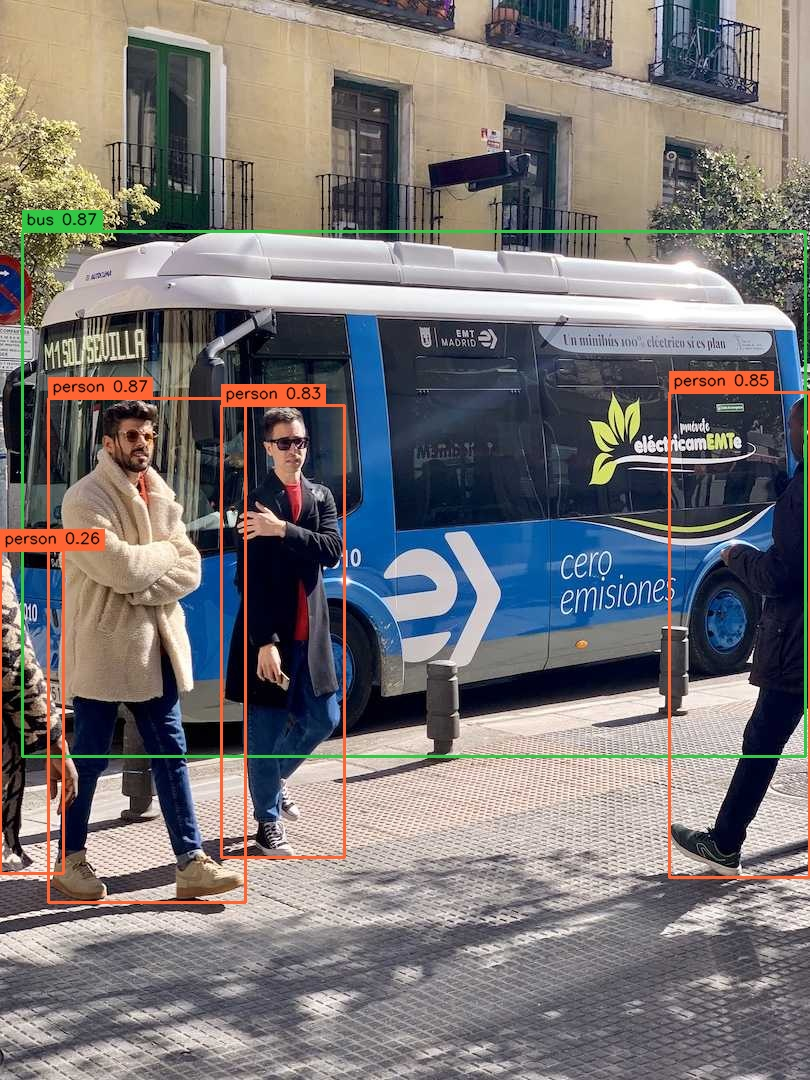
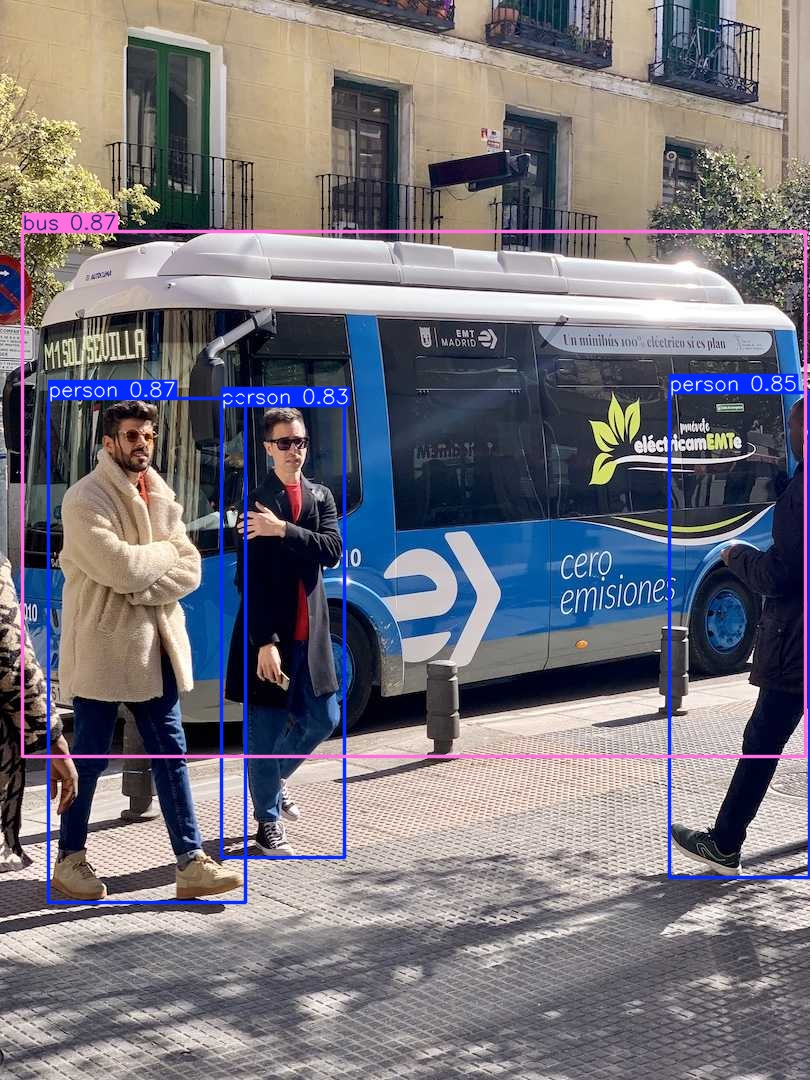
Harden SIH prototype: clean live overlay, edge caption, metric reconciliation, and predictive forecast drivers

diff --git a/src/pages/PredictiveIntelligencePage.tsx b/src/pages/PredictiveIntelligencePage.tsx
@@ -600,15 +600,65 @@ export const PredictiveIntelligencePage: React.FC = () => {
                 </div>
               </div>
 
-              {/* Auditable Explanations Card */}
-              <div className="p-4 rounded-xl bg-slate-950 border border-slate-800 space-y-2">
-                <div className="flex items-center gap-1.5 text-xs font-bold text-slate-300 uppercase tracking-wider">
-                  <Info className="h-4 w-4 text-indigo-400" />
-                  <span>Why This Forecast?</span>
+              {/* Auditable Explanations & Primary Driver Card */}
+              <div className="p-4 rounded-xl bg-slate-950 border border-slate-800 space-y-3">
+                <div className="flex items-center justify-between">
+                  <div className="flex items-center gap-1.5 text-xs font-bold text-slate-300 uppercase tracking-wider">
+                    <Info className="h-4 w-4 text-indigo-400" />
+                    <span>Forecast Direction &amp; Primary Driver</span>
+                  </div>
+                  <span className="text-[10px] text-slate-500 font-mono">
+                    Empirical Model Evidence
+                  </span>
                 </div>
-                <p className="text-xs text-slate-300 leading-relaxed bg-slate-900/60 p-3 rounded-lg border border-slate-800/80 font-sans">
-                  {selectedForecast.explanation}
-                </p>
+
+                <div className="grid grid-cols-1 sm:grid-cols-2 gap-3 pt-1">
+                  <div className="p-3 rounded-lg bg-slate-900/80 border border-slate-800 space-y-1">
+                    <span className="text-[10px] font-bold text-slate-400 uppercase tracking-wider block">
+                      Forecast Direction
+                    </span>
+                    <div className="text-xs font-semibold">
+                      {selectedForecast.evidence_sufficiency === 'INSUFFICIENT' ? (
+                        <span className="text-slate-400">Forecast direction: Limited evidence</span>
+                      ) : selectedForecast.trend_direction === 'IMPROVING' ? (
+                        <span className="text-emerald-400 flex items-center gap-1">
+                          <TrendingDown className="h-3.5 w-3.5" /> Forecast direction: Improving
+                        </span>
+                      ) : selectedForecast.trend_direction === 'DETERIORATING' ? (
+                        <span className="text-rose-400 flex items-center gap-1">
+                          <TrendingUp className="h-3.5 w-3.5" /> Forecast direction: Deteriorating
+                        </span>
+                      ) : (
+                        <span className="text-sky-400 flex items-center gap-1">
+                          <Activity className="h-3.5 w-3.5" /> Forecast direction: Stable
+                        </span>
+                      )}
+                    </div>
+                  </div>
+
+                  <div className="p-3 rounded-lg bg-slate-900/80 border border-slate-800 space-y-1">
+                    <span className="text-[10px] font-bold text-slate-400 uppercase tracking-wider block">
+                      Primary Driver
+                    </span>
+                    <p className="text-xs text-slate-200">
+                      {selectedForecast.evidence_sufficiency === 'INSUFFICIENT'
+                        ? 'Insufficient fleet passes (< 3 observations)'
+                        : `Rate of change across ${selectedForecast.historical_observation_count} passes (${selectedForecast.independent_bus_count} buses) vs baseline (${selectedForecast.baseline_value})`}
+                    </p>
+                  </div>
+                </div>
+
+                <div className="text-xs text-slate-300 leading-relaxed bg-slate-900/60 p-3 rounded-lg border border-slate-800/80 font-sans space-y-1">
+                  <div className="text-[11px] font-semibold text-slate-400 uppercase tracking-wider">
+                    Calculated Model Rationale:
+                  </div>
+                  <p>{selectedForecast.explanation}</p>
+                </div>
+
+                <div className="flex items-center justify-between text-[10px] text-slate-500 pt-1 border-t border-slate-900">
+                  <span>* Evidence confidence is not probability.</span>
+                  <span>Observation Window: {selectedForecast.observation_window_days.toFixed(1)} days</span>
+                </div>
               </div>
 
               {/* Early Warning Alert & Recommended Action */}

diff --git a/src/pages/IncidentsPage.tsx b/src/pages/IncidentsPage.tsx
@@ -207,15 +207,16 @@ export function IncidentsPage() {
       {/* Summary KPI Cards */}
       <div className="grid grid-cols-2 gap-3 sm:grid-cols-5">
         {[
-          { label: 'Total Incidents', value: incidents.length, color: 'text-rose-400' },
-          { label: 'New / Unreviewed', value: incidents.filter((i) => i.status === 'NEW').length, color: 'text-rose-400' },
-          { label: 'Under Review', value: incidents.filter((i) => i.status === 'REVIEW').length, color: 'text-amber-400' },
-          { label: 'Actioned / Closed', value: incidents.filter((i) => i.status === 'ACTIONED' || i.status === 'CLOSED').length, color: 'text-emerald-400' },
-          { label: 'Suspect Hit & Run', value: incidents.filter((i) => i.incident_type === 'HIT_AND_RUN_SUSPECT').length, color: 'text-purple-400' },
+          { label: 'Active Corridor Queue', sub: 'Current Testbed Incidents', value: incidents.length, color: 'text-rose-400' },
+          { label: 'New / Unreviewed', sub: 'Awaiting Operator Review', value: incidents.filter((i) => i.status === 'NEW').length, color: 'text-rose-400' },
+          { label: 'Under Review', sub: 'Operator Verification', value: incidents.filter((i) => i.status === 'REVIEW').length, color: 'text-amber-400' },
+          { label: 'Actioned / Closed', sub: 'Dispatched to Authority', value: incidents.filter((i) => i.status === 'ACTIONED' || i.status === 'CLOSED').length, color: 'text-emerald-400' },
+          { label: 'Suspect Hit & Run', sub: 'ANPR Track Associated', value: incidents.filter((i) => i.incident_type === 'HIT_AND_RUN_SUSPECT').length, color: 'text-purple-400' },
         ].map((stat) => (
           <div key={stat.label} className="rounded-xl border border-ink-700 bg-ink-850 p-3.5 shadow-sm">
             <p className={`text-2xl font-bold tabular font-mono ${stat.color}`}>{stat.value}</p>
-            <p className="mt-0.5 text-xs text-slate-400">{stat.label}</p>
+            <p className="mt-0.5 text-xs font-semibold text-slate-300">{stat.label}</p>
+            <p className="text-[10px] text-slate-500">{stat.sub}</p>
           </div>
         ))}
       </div>

diff --git a/src/pages/DigitalTwinPage.tsx b/src/pages/DigitalTwinPage.tsx
@@ -316,16 +316,16 @@ export function DigitalTwinPage() {
       <div className="grid grid-cols-2 gap-3 sm:grid-cols-3 lg:grid-cols-6">
         <div className="rounded-xl border border-ink-700 bg-ink-850 p-3.5 shadow-sm">
           <div className="flex items-center justify-between text-slate-400">
-            <span className="text-xs font-medium">Active Fleet</span>
+            <span className="text-xs font-semibold text-slate-300">Fleet Buses (Active)</span>
             <Bus className="h-4 w-4 text-emerald-400" />
           </div>
           <p className="mt-2 text-xl font-bold tabular-nums text-slate-100">{summary.active_buses}</p>
-          <p className="mt-0.5 text-[10px] text-slate-500">Sensing Buses Online</p>
+          <p className="mt-0.5 text-[10px] text-slate-500">11 Network Sensing Buses</p>
         </div>
 
         <div className="rounded-xl border border-ink-700 bg-ink-850 p-3.5 shadow-sm">
           <div className="flex items-center justify-between text-slate-400">
-            <span className="text-xs font-medium">Roads Monitored</span>
+            <span className="text-xs font-semibold text-slate-300">Corridor Segments</span>
             <MapPin className="h-4 w-4 text-blue-400" />
           </div>
           <p className="mt-2 text-xl font-bold tabular-nums text-slate-100">{summary.roads_observed}</p>
@@ -334,7 +334,7 @@ export function DigitalTwinPage() {
 
         <div className="rounded-xl border border-ink-700 bg-ink-850 p-3.5 shadow-sm">
           <div className="flex items-center justify-between text-slate-400">
-            <span className="text-xs font-medium">Road Defects</span>
+            <span className="text-xs font-semibold text-slate-300">Road Defects</span>
             <AlertTriangle className="h-4 w-4 text-amber-400" />
           </div>
           <p className="mt-2 text-xl font-bold tabular-nums text-slate-100">{summary.active_defects}</p>

diff --git a/src/pages/OverviewPage.tsx b/src/pages/OverviewPage.tsx
@@ -166,7 +166,8 @@ export function OverviewPage() {
       {/* KPI Cards */}
       <div className="grid grid-cols-1 gap-4 sm:grid-cols-2 xl:grid-cols-3 3xl:grid-cols-6">
         <StatCard
-          label="Active Buses"
+          label="Fleet Buses (Network)"
+          subtitle="Active / Total Registered"
           value={stats.activeBuses}
           total={stats.totalBuses}
           icon={BusIcon}
@@ -178,6 +179,7 @@ export function OverviewPage() {
         />
         <StatCard
           label="Events Detected Today"
+          subtitle="AI Edge Vision Detections"
           value={stats.eventsDetected}
           icon={Radar}
           iconColor="text-accent-400"
@@ -188,6 +190,7 @@ export function OverviewPage() {
         />
         <StatCard
           label="Road Defects"
+          subtitle="Active Surface Defects"
           value={stats.roadDefects}
           icon={CircleAlert}
           iconColor="text-amber-400"
@@ -198,6 +201,7 @@ export function OverviewPage() {
         />
         <StatCard
           label="Traffic Congestion"
+          subtitle="Monitored Corridor Zones"
           value={stats.trafficCongestion}
           icon={TrafficCone}
           iconColor="text-orange-400"
@@ -207,7 +211,8 @@ export function OverviewPage() {
           onClick={() => navigate('/traffic')}
         />
         <StatCard
-          label="Active Incidents"
+          label="Active Incidents (Fleet Log)"
+          subtitle="30-Day Cumulative Log"
           value={stats.activeIncidents}
           total={stats.totalIncidents}
           icon={Siren}
@@ -219,6 +224,7 @@ export function OverviewPage() {
         />
         <StatCard
           label="Camera Feeds"
+          subtitle="Edge Video Streams"
           value={stats.cameraFeeds}
           icon={Camera}
           iconColor="text-teal-400"

diff --git a/src/components/ui/StatCard.tsx b/src/components/ui/StatCard.tsx
@@ -4,6 +4,7 @@ interface StatCardProps {
   label: string;
   value: number | string;
   total?: number;
+  subtitle?: string;
   icon: LucideIcon;
   iconColor: string;
   iconBg: string;
@@ -12,7 +13,7 @@ interface StatCardProps {
   onClick?: () => void;
 }
 
-export function StatCard({ label, value, total, icon: Icon, iconColor, iconBg, trend, sparkline, onClick }: StatCardProps) {
+export function StatCard({ label, value, total, subtitle, icon: Icon, iconColor, iconBg, trend, sparkline, onClick }: StatCardProps) {
   const trendColor =
     trend?.direction === 'up' ? 'text-emerald-400' : trend?.direction === 'down' ? 'text-rose-400' : 'text-slate-400';
 
@@ -38,7 +39,8 @@ export function StatCard({ label, value, total, icon: Icon, iconColor, iconBg, t
           {value}
           {total !== undefined && <span className="text-base font-normal text-slate-500"> / {total}</span>}
         </p>
-        <p className="mt-1 text-sm text-slate-400">{label}</p>
+        <p className="mt-1 text-sm font-medium text-slate-300">{label}</p>
+        {subtitle && <p className="text-[11px] text-slate-500">{subtitle}</p>}
       </div>
       {sparkline && sparkline.length > 0 && (
         <div className="mt-3 flex h-8 items-end gap-0.5">

diff --git a/src/pages/LiveMonitorPage.tsx b/src/pages/LiveMonitorPage.tsx
@@ -25,6 +25,7 @@ import {
   Cpu,
   ClipboardCheck,
   RefreshCw,
+  Info,
 } from 'lucide-react';
 import { apiService } from '@/services/api';
 import { mockLiveMonitorStatus } from '@/data/mockData';
@@ -432,6 +433,14 @@ export const LiveMonitorPage: React.FC = () => {
                   </span>
                 </label>
               </div>
+            </div>
+
+            {/* Edge Bandwidth & Architecture Disclosure */}
+            <div className="bg-secondary/20 border-t border-border px-4 py-2.5 flex items-start gap-2.5 text-xs text-muted-foreground">
+              <Info className="h-4 w-4 text-primary shrink-0 mt-0.5" />
+              <p className="leading-relaxed">
+                <strong className="text-foreground">Edge Architecture:</strong> Edge AI processes video on the bus. The central platform receives lightweight AI events, metadata, reliability scores, and selective evidence — not continuous raw video.
+              </p>
             </div>
           </div>
 

diff --git a/ai/traffic/detector.py b/ai/traffic/detector.py
@@ -12,6 +12,7 @@ from ai.traffic.config import (
     CLASS_COLORS_BGR, DEFAULT_COLOR_BGR,
     HUD_LINE_COLOR_BGR, HUD_INCOMING_COLOR_BGR, HUD_OUTGOING_COLOR_BGR,
     ANNOTATION_BOX_THICKNESS, ANNOTATION_FONT_SCALE, ANNOTATION_FONT_THICKNESS,
+    DISPLAY_CONFIDENCE_THRESHOLD,
 )
 from ai.traffic.models import DensityResult, DirectionalCounts, TrackedObject
 
@@ -41,6 +42,9 @@ def annotate_frame(
 
     # ── Per-track annotations ─────────────────────────────────────────────────
     for track in active_tracks:
+        # Suppress low-confidence tracks for clean visual overlay (DISPLAY_CONFIDENCE_THRESHOLD = 0.40)
+        if track.confidence < DISPLAY_CONFIDENCE_THRESHOLD:
+            continue
         color = CLASS_COLORS_BGR.get(track.class_name, DEFAULT_COLOR_BGR)
         x1, y1, x2, y2 = [int(v) for v in track.bbox]
 

diff --git a/ai/traffic/config.py b/ai/traffic/config.py
@@ -20,8 +20,9 @@ VEHICLE_CLASSES: List[str] = [
     "car", "motorcycle", "bicycle", "bus", "truck", "person"
 ]
 
-# ─── Tracker ──────────────────────────────────────────────────────────────────
+# ─── Tracker & Display Thresholds ─────────────────────────────────────────────
 DEFAULT_CONFIDENCE_THRESHOLD: float = 0.25
+DISPLAY_CONFIDENCE_THRESHOLD: float = 0.40  # Display suppression threshold to filter low-confidence visual artefacts
 DEFAULT_IMG_SIZE: int = 640
 DEFAULT_DEVICE: str = "cpu"
 

diff --git a/README.md b/README.md
@@ -54,7 +54,8 @@ Urban Digital Twin & Corridor GIS Analytics
 To ensure absolute technical transparency for judges and evaluators, all capabilities are classified into three distinct categories:
 
 ### A. IMPLEMENTED (Active Algorithmic Code & Production APIs)
-1. **Edge AI Perception Pipeline**: Multi-task inference for traffic object detection, lane tracking, ANPR OCR syntax validation, and road damage bounding boxes.
+1. **Live Monitor & Edge AI Perception Pipeline**: Real-time multi-task inference for traffic object detection, lane tracking, ANPR OCR syntax validation, and road damage bounding boxes.
+   > **Architecture Note**: Edge AI processes video on the bus. The central platform receives lightweight AI events, metadata, reliability scores, and selective evidence — not continuous raw video.
 2. **Reliability Calibration Layer**: Operational confidence weighting that discounts raw detection confidence based on environmental and optical degradation factors.
 3. **Offline Store-and-Forward Edge Queue**: SQLite persistent buffer guaranteeing zero data loss during simulated edge connectivity blackouts with automatic synchronization on link restoration.
 4. **Multi-Bus Event Correlation Engine**: Spatio-temporal clustering (DBSCAN + spatial hashing) correlating observations across overlapping transit corridors to eliminate false positives.
